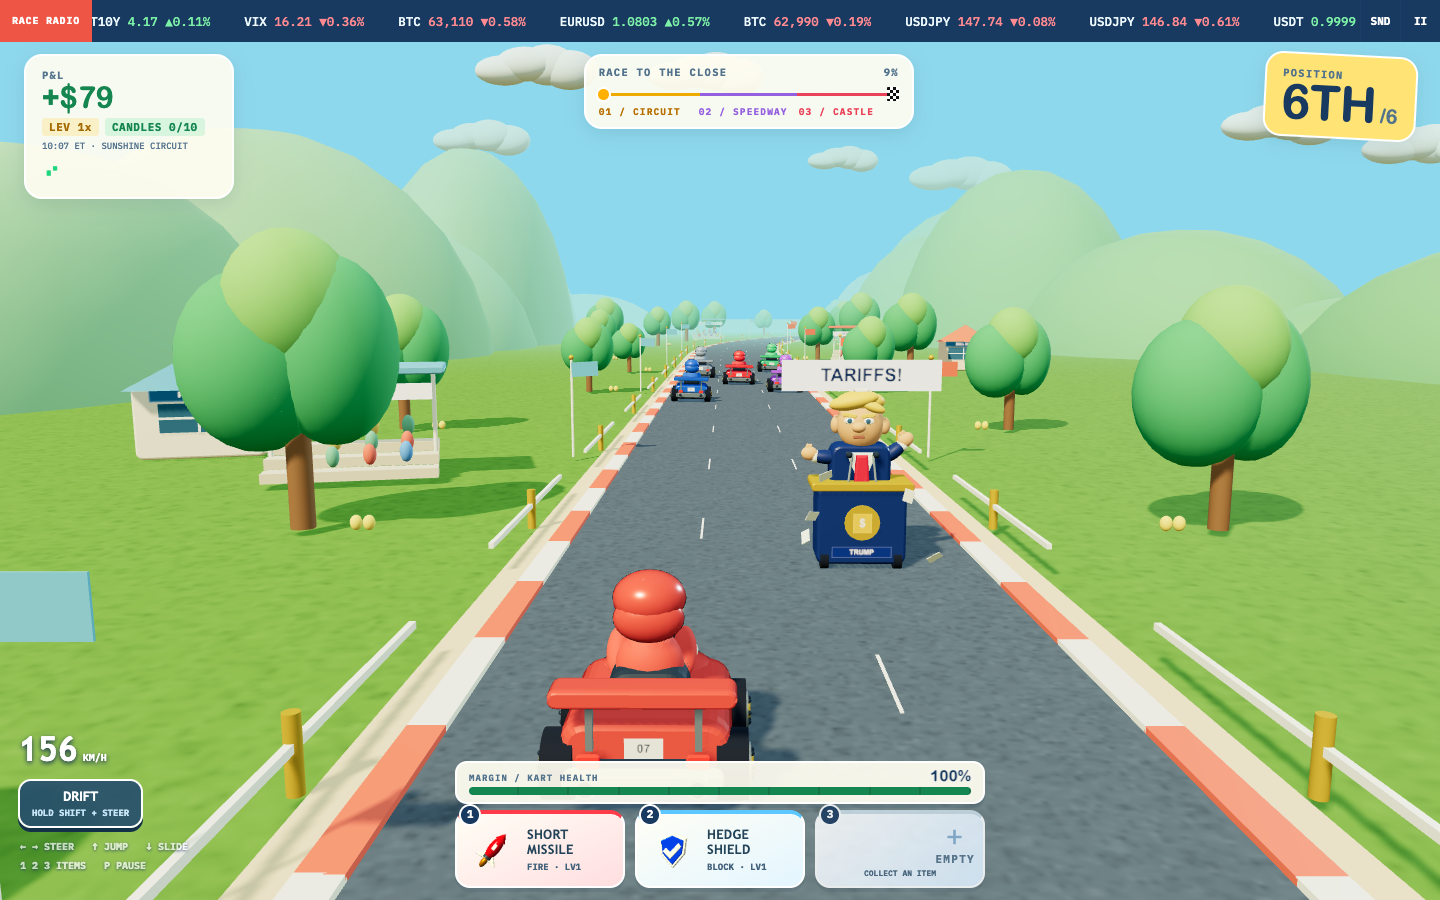
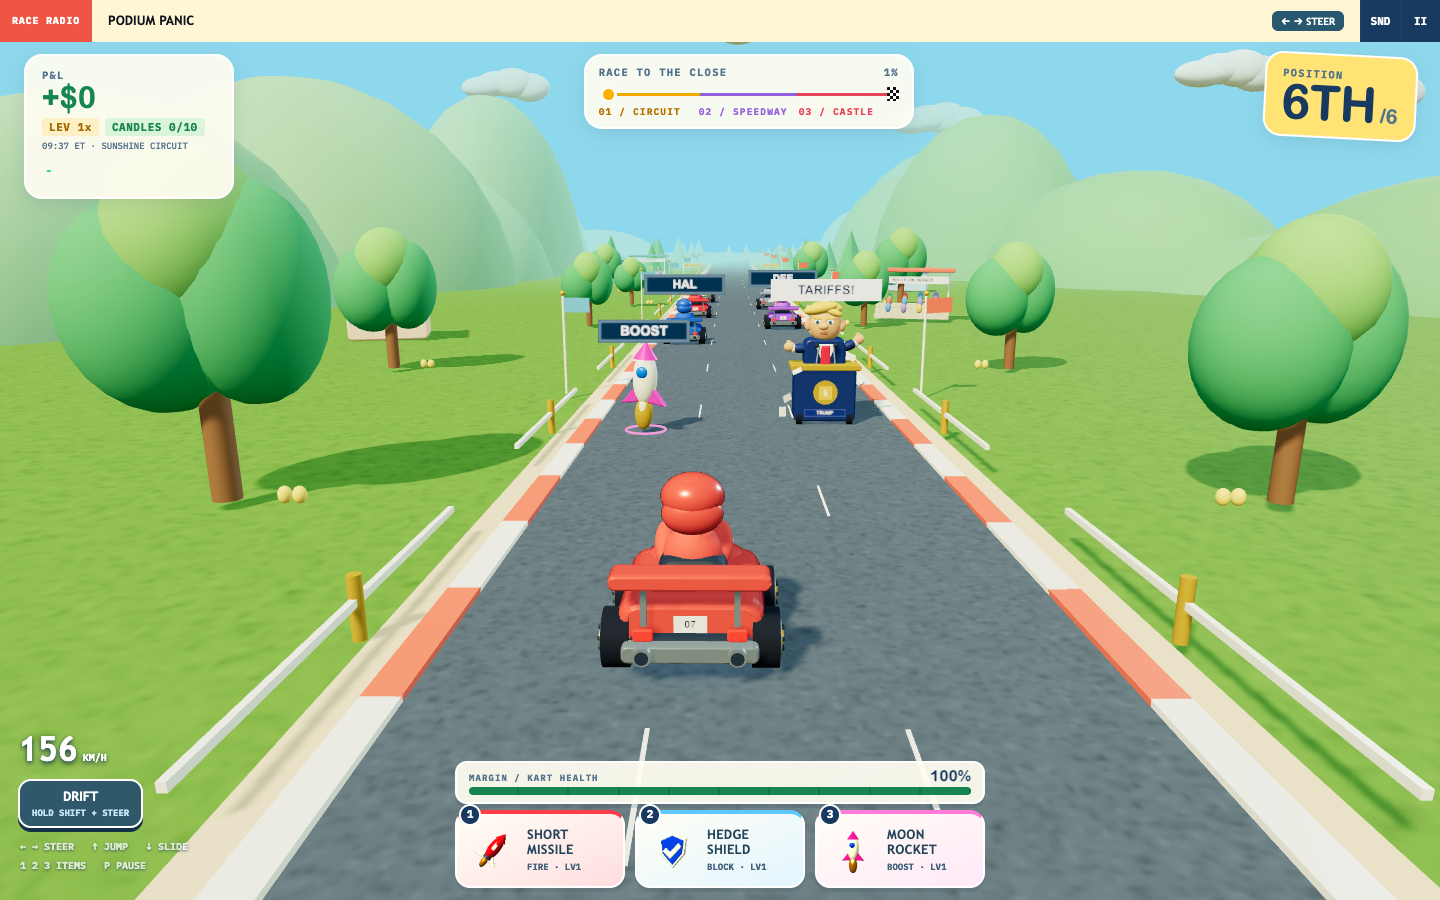
test(kart): record full browser verification and review

diff --git a/docs/superpowers/plans/2026-11-01-kart-upgrade.md b/docs/superpowers/plans/2026-11-01-kart-upgrade.md
@@ -33,45 +33,45 @@
 
 ## 1. Handling and shared course
 Files: new `work/3d/handling.js`, `course.js`, `upgrade.py`; modify builder, renderer and state hooks. Tests: `tests/handling.test.cjs`, `course.test.cjs`.
-- [ ] Write and run failing tests for momentum, neutral settling, countersteer, reduced grip, edge clamp and time partition consistency.
-- [ ] Implement `stepHandling(state,input,surface,dt)` with returned x/vx/steer/heading. Consume effective steer after existing freeze/reverse rules.
-- [ ] Implement `sampleCourse(s,x)`, `crossedRampExit(s0,s1)`, `isSpawnClear(s,depth)` from one early-sector bank/ramp descriptor table. Keep P.y road-relative and launch once at the ramp lip. Add warning chevrons and spawn clearance.
-- [ ] Renderer uses shared course elevation/bank/pitch for road, edge marks, kart and hazards. Builder replacement misses fail loudly.
-- [ ] Run numerical tests, generated-game keyboard/drift and actual bank/ramp screenshot checks. Commit verified unit.
+- [x] Write and run failing tests for momentum, neutral settling, countersteer, reduced grip, edge clamp and time partition consistency.
+- [x] Implement `stepHandling(state,input,surface,dt)` with returned x/vx/steer/heading. Consume effective steer after existing freeze/reverse rules.
+- [x] Implement `sampleCourse(s,x)`, `crossedRampExit(s0,s1)`, `isSpawnClear(s,depth)` from one early-sector bank/ramp descriptor table. Keep P.y road-relative and launch once at the ramp lip. Add warning chevrons and spawn clearance.
+- [x] Renderer uses shared course elevation/bank/pitch for road, edge marks, kart and hazards. Builder replacement misses fail loudly.
+- [x] Run numerical tests, generated-game keyboard/drift and actual bank/ramp screenshot checks. Commit verified unit.
 
 ## 2. Chase camera
 Files: new `work/3d/camera.js`; modify renderer. Test: `tests/camera.test.cjs`.
-- [ ] Write and run failing tests for damping/convergence, viewport targets, bounded jump following and reduced-motion roll/FOV.
-- [ ] Add stable damped follow and look-ahead. Camera follows course slope, bank and speed without snapping on normal steering. Reset presentation state on mode transition or replay.
-- [ ] Test in browser with manual steering, bank, ramp, boost, pause and phone viewport. Commit.
+- [x] Write and run failing tests for damping/convergence, viewport targets, bounded jump following and reduced-motion roll/FOV.
+- [x] Add stable damped follow and look-ahead. Camera follows course slope, bank and speed without snapping on normal steering. Reset presentation state on mode transition or replay.
+- [x] Test in browser with manual steering, bank, ramp, boost, pause and phone viewport. Commit.
 
 ## 3. Effects and audio feedback
 Files: renderer, new focused effect helper if needed, arcade audio hooks. Tests: generated-game effect checks.
-- [ ] Add failing checks for shield hit pulse and bounded visible trail effects.
-- [ ] Add localized animated shield, directional boost/ramp material, flowing lava, distinct missile exhaust and glossy oil. Reuse bounded pools. Retain current music/mute controls and add landing/launch cues if absent.
-- [ ] Check all item paths, reduced motion and shader compile errors, then inspect screenshots. Commit.
+- [x] Add failing checks for shield hit pulse and bounded visible trail effects.
+- [x] Add localized animated shield, directional boost/ramp material, flowing lava, distinct missile exhaust and glossy oil. Reuse bounded pools. Retain current music/mute controls and add landing/launch cues if absent.
+- [x] Check all item paths, reduced motion and shader compile errors, then inspect screenshots. Commit.
 
 ## 4. Input and collision reliability
 Files: new `collisions.js`, control/simulation integration in upgrade.py; test helpers and browser.
-- [ ] Write and run failing tests for fast pass-through, moving-vs-moving contact, earliest target and diagonal miss.
-- [ ] Add fixed-step accumulator shared by browser/manual stepping, bounded catch-up, and 100 ms jump buffer consumed once on landing.
-- [ ] Capture previous poses before movement; sweep hazards, pickups, missile variants and rival missiles without changing game consequences. Check road-relative height at contact and retain slide rules.
-- [ ] Test 30/60/144 Hz partitions, early/expired jump input, freeze, shield, invulnerability and pause/reset. Commit.
+- [x] Write and run failing tests for fast pass-through, moving-vs-moving contact, earliest target and diagonal miss.
+- [x] Add fixed-step accumulator shared by browser/manual stepping, bounded catch-up, and 100 ms jump buffer consumed once on landing.
+- [x] Capture previous poses before movement; sweep hazards, pickups, missile variants and rival missiles without changing game consequences. Check road-relative height at contact and retain slide rules.
+- [x] Test 30/60/144 Hz partitions, early/expired jump input, freeze, shield, invulnerability and pause/reset. Commit.
 
 ## 5. World readability
 Files: renderer and guide copy. Tests: browser label bounds and screenshots.
-- [ ] Add camera-facing compact rival and pickup/action cues with distance and count limits. Keep physical signage and Trump speech intact.
-- [ ] Show corner/ramp warnings in world and guide. Keep all news in the top ticker.
-- [ ] Inspect desktop, 390x844 portrait, 844x390 landscape and reduced motion. Commit.
+- [x] Add camera-facing compact rival and pickup/action cues with distance and count limits. Keep physical signage and Trump speech intact.
+- [x] Show corner/ramp warnings in world and guide. Keep all news in the top ticker.
+- [x] Inspect desktop, 390x844 portrait, 844x390 landscape and reduced motion. Commit.
 
 ## 6. Rendering efficiency and quality
 Files: renderer and pause options. Tests: renderer introspection and repeat-race browser checks.
-- [ ] Add simpler distant scenery and correct refreshed instance bounds before enabling culling. Keep near gameplay objects recognizable.
-- [ ] Avoid recomputing hidden geometry. Add a low/standard graphics choice if needed to bound mobile shadow and pixel costs.
-- [ ] Validate visible bounds and near/far detail, no shader errors, and stable geometry counts. Report scene counts only, not unsupported FPS gains. Commit.
+- [x] Add simpler distant scenery and correct refreshed instance bounds before enabling culling. Keep near gameplay objects recognizable.
+- [x] Avoid recomputing hidden geometry. Add a low/standard graphics choice if needed to bound mobile shadow and pixel costs.
+- [x] Validate visible bounds and near/far detail, no shader errors, and stable geometry counts. Report scene counts only, not unsupported FPS gains. Commit.
 
 ## Delivery gate
-- [ ] Run Node suite, repeatable build, complete protected race, all hazards/items, touch and keyboard, pause/results/replay, mobile bounds and news strip checks.
-- [ ] Independent review of final diff. Fix important findings with regression tests.
+- [x] Run Node suite, repeatable build, complete protected race, all hazards/items, touch and keyboard, pause/results/replay, mobile bounds and news strip checks.
+- [x] Independent review of final diff. Fix important findings with regression tests.
 - [ ] Update README and final screenshots, copy outputs to chat deliverables, open preview.
 - [ ] Push feature branch and open ready PR. Verify remote head and PR URL. Do not merge.

diff --git a/docs/design/kart-verification.md b/docs/design/kart-verification.md
@@ -1,0 +1,26 @@
+# Kart upgrade verification
+
+## Scope
+
+The 3D edition gained handling momentum, a shared bank/ramp surface, a damped chase camera, local effects, buffered jumps, continuous contacts, bounded world cues, scenery LOD and graphics controls. The two earlier 2D editions are unchanged.
+
+## Automated evidence
+
+- Python standalone build succeeds. New integration hooks assert expected replacement counts.
+- `npm test` passes 31 numerical behavior tests for handling, course continuity and launches, camera bounds, relative-motion contacts and fixed stepping.
+- `npm run test:browser` drives the generated artifact through seven browser scripts. Checks cover keyboard and actual two-finger touch drift, all seven items and 13 hazard models, jump buffering, collision protection and clearance rules, pause/blur, results/replay, a protected three-sector race, portrait/landscape control bounds, top-strip news, shader compilation, effect limits, world-cue orientation, graphics controls and resource stability.
+- The protected full race uses test-only centering and protection. It verifies race progression, not difficulty or competitive balance.
+- Desktop, 390x844 portrait and 844x390 landscape screenshots were inspected. Camera framing was corrected after actual projected kart bounds showed HUD overlap.
+- The graphics control was checked through native keyboard typeahead and a real-origin persistence reload.
+
+## Independent review
+
+Two fresh reviewers examined the code and ran focused tests. One reported no findings. The other reproduced a spent shield ripple persisting through the finish/results screens. That issue was reproduced by a failing browser regression, fixed in commit 22785a5, and rechecked successfully. Pause still freezes the effect.
+
+## Decisions and limits
+
+Keep P/S as authoritative gameplay state and use small pure numerical helpers instead of a second motion engine. Shared course sampling aligns rendered surfaces with gameplay coordinates while retaining road-relative obstacle clearance. Presentation and simulation have separate owners; browser verification ran independently of implementation.
+
+The simulation runs at 120 Hz. Browser catch-up accepts at most 250 ms. Explicit manual advances retain countdown remainder into play; pause and terminal mode transitions discard old-mode debt. Buffered jump takes precedence over queued slide on landing.
+
+Scene detail and resource counts were checked. No device FPS improvement is claimed from software-rendered browser tests. Arcade handling and the new course section still benefit from human playtesting for taste and balance.

diff --git a/README.md b/README.md
@@ -16,7 +16,7 @@ Then visit http://localhost:8000.
 
 ## Editions
 
-- **Bull Run 3D:** the latest version, with drift turbo tiers, animated Trump podium hazards, 3D power-ups, spectators, effects, and arcade audio.
+- **Bull Run 3D:** the latest version, with momentum and tire grip, drift turbo tiers, a banked corner and launch ramp, a damped chase camera, animated Trump podium hazards, 3D power-ups, effects, and arcade audio.
 - **Bull Run Grand Prix:** the earlier colorful 2D racing edition.
 - **Midnight Exchange:** the alternative visual edition.
 
@@ -27,7 +27,9 @@ Then visit http://localhost:8000.
 - Up arrow or Space: jump; down arrow: slide.
 - 1, 2, 3: use items; P: pause.
 - Mobile: hold a screen edge to steer. Hold DRIFT with another finger, then release it to boost.
-- Pause menu: arcade music toggle. SND button: mute music and effects.
+- Pause menu: arcade music and Standard/Economy graphics. SND button: mute music and effects.
+- The opening course includes a banked corner and an automatic launch ramp with warning signs.
+- Jump input is buffered for 100 ms before landing. Fixed simulation steps and swept collision checks handle fast contacts.
 
 See the in-game guide for the complete rules and touch controls.
 
@@ -40,6 +42,27 @@ python3 work/3d/build.py
 ```
 
 The builder combines `outputs/bull-run-grand-prix.html` with the renderer and enhancements in `work/3d/`, and writes `outputs/bull-run-3d.html`. The earlier 2D HTML files are standalone source editions.
+
+## Verify changes
+
+The build uses Python 3. Tests use Node.js and Playwright Chromium. Install test dependencies once:
+
+```sh
+npm install
+npx playwright install chromium
+```
+
+Run the numerical behavior tests and generated-game browser checks:
+
+```sh
+npm run build
+npm test
+npm run test:browser
+```
+
+Browser checks cover keyboard and simultaneous touch drifting, items and hazards, jump buffering, collision protection rules, pause, replay, a protected full race, mobile layouts, news placement, shader compilation, labels, graphics settings, and resource cleanup. The protected race uses test-only invulnerability and centering to exercise progression; it is not a difficulty or balance test. Screenshots go to the ignored `.work/` directory. Scene counts are diagnostics, not an FPS benchmark.
+
+`PLAYWRIGHT_MODULE` can point to an existing Playwright installation when dependencies are provided by a development environment.
 
 ## Third-party code
 

diff --git a/docs/design/kart-upgrade.md b/docs/design/kart-upgrade.md
@@ -14,3 +14,6 @@ Node behavioral tests for control response, grip, step-rate consistency, course 
 
 ## Delivery
 Work on `kart-feel-upgrade`. Commit ordered verified units. Copy final user-facing outputs to the chat outputs directory and open a preview. Push a feature branch and open a PR for review; do not merge main or publish hosting.
+
+## Effects implementation contract
+Use localized shader materials for the player shield and lava. A shield contact starts a brief visible ripple, including the last absorbed hit; an inactive shield has no idle pulse. Keep the protected/invincible tint distinguishable. Ramp guide arrows animate forward along the sampled road surface; they announce the launch ramp and are not a new hidden speed mechanic. Add bounded, pooled exhaust behind visible missiles. Oil traps have a dark glossy footprint; no new item type is introduced. Effects and cues use shared course placement, reset on replay, honor reduced motion, and cannot cover news or controls. Preserve the independent music checkbox and master mute. Inspect actual pixels and WebGL console output, not merely material type assertions.
